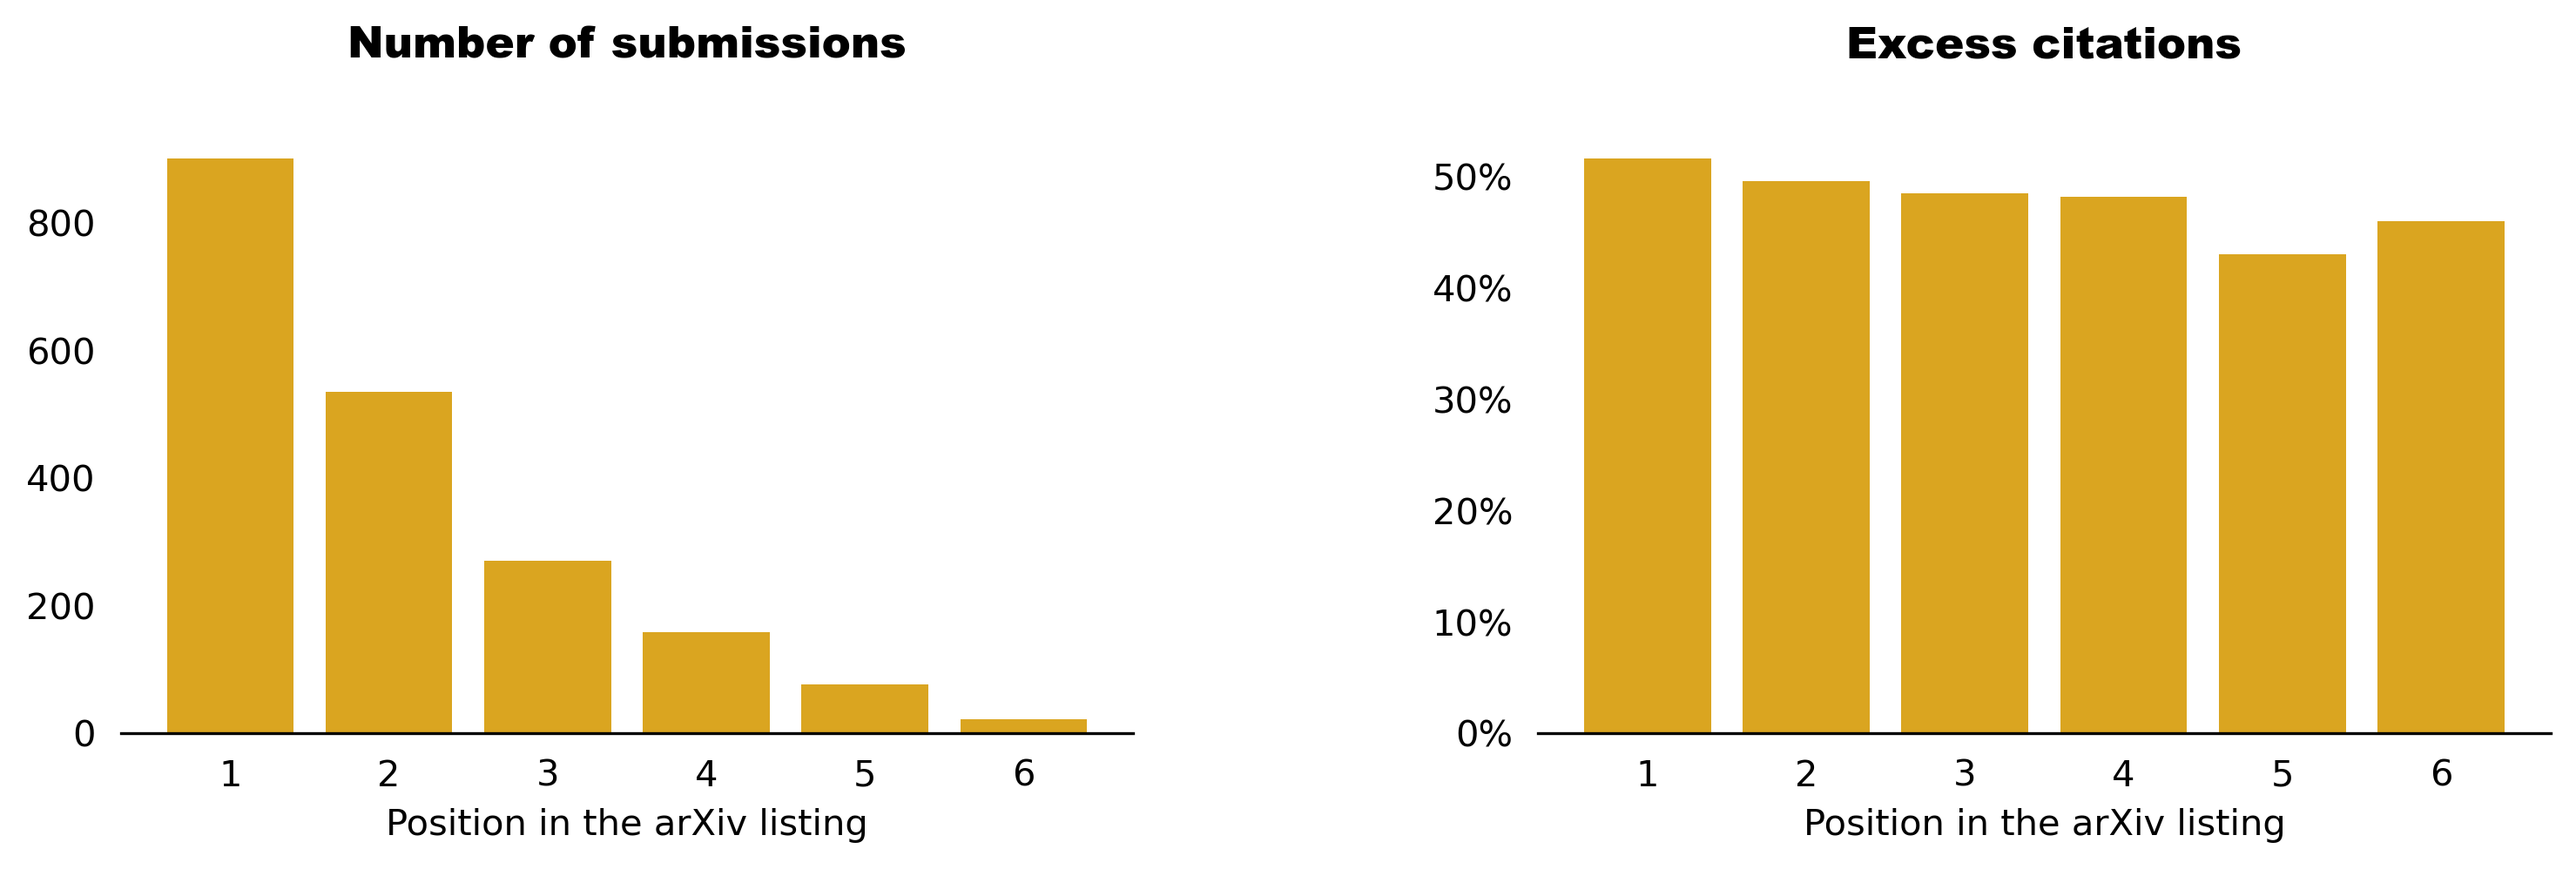
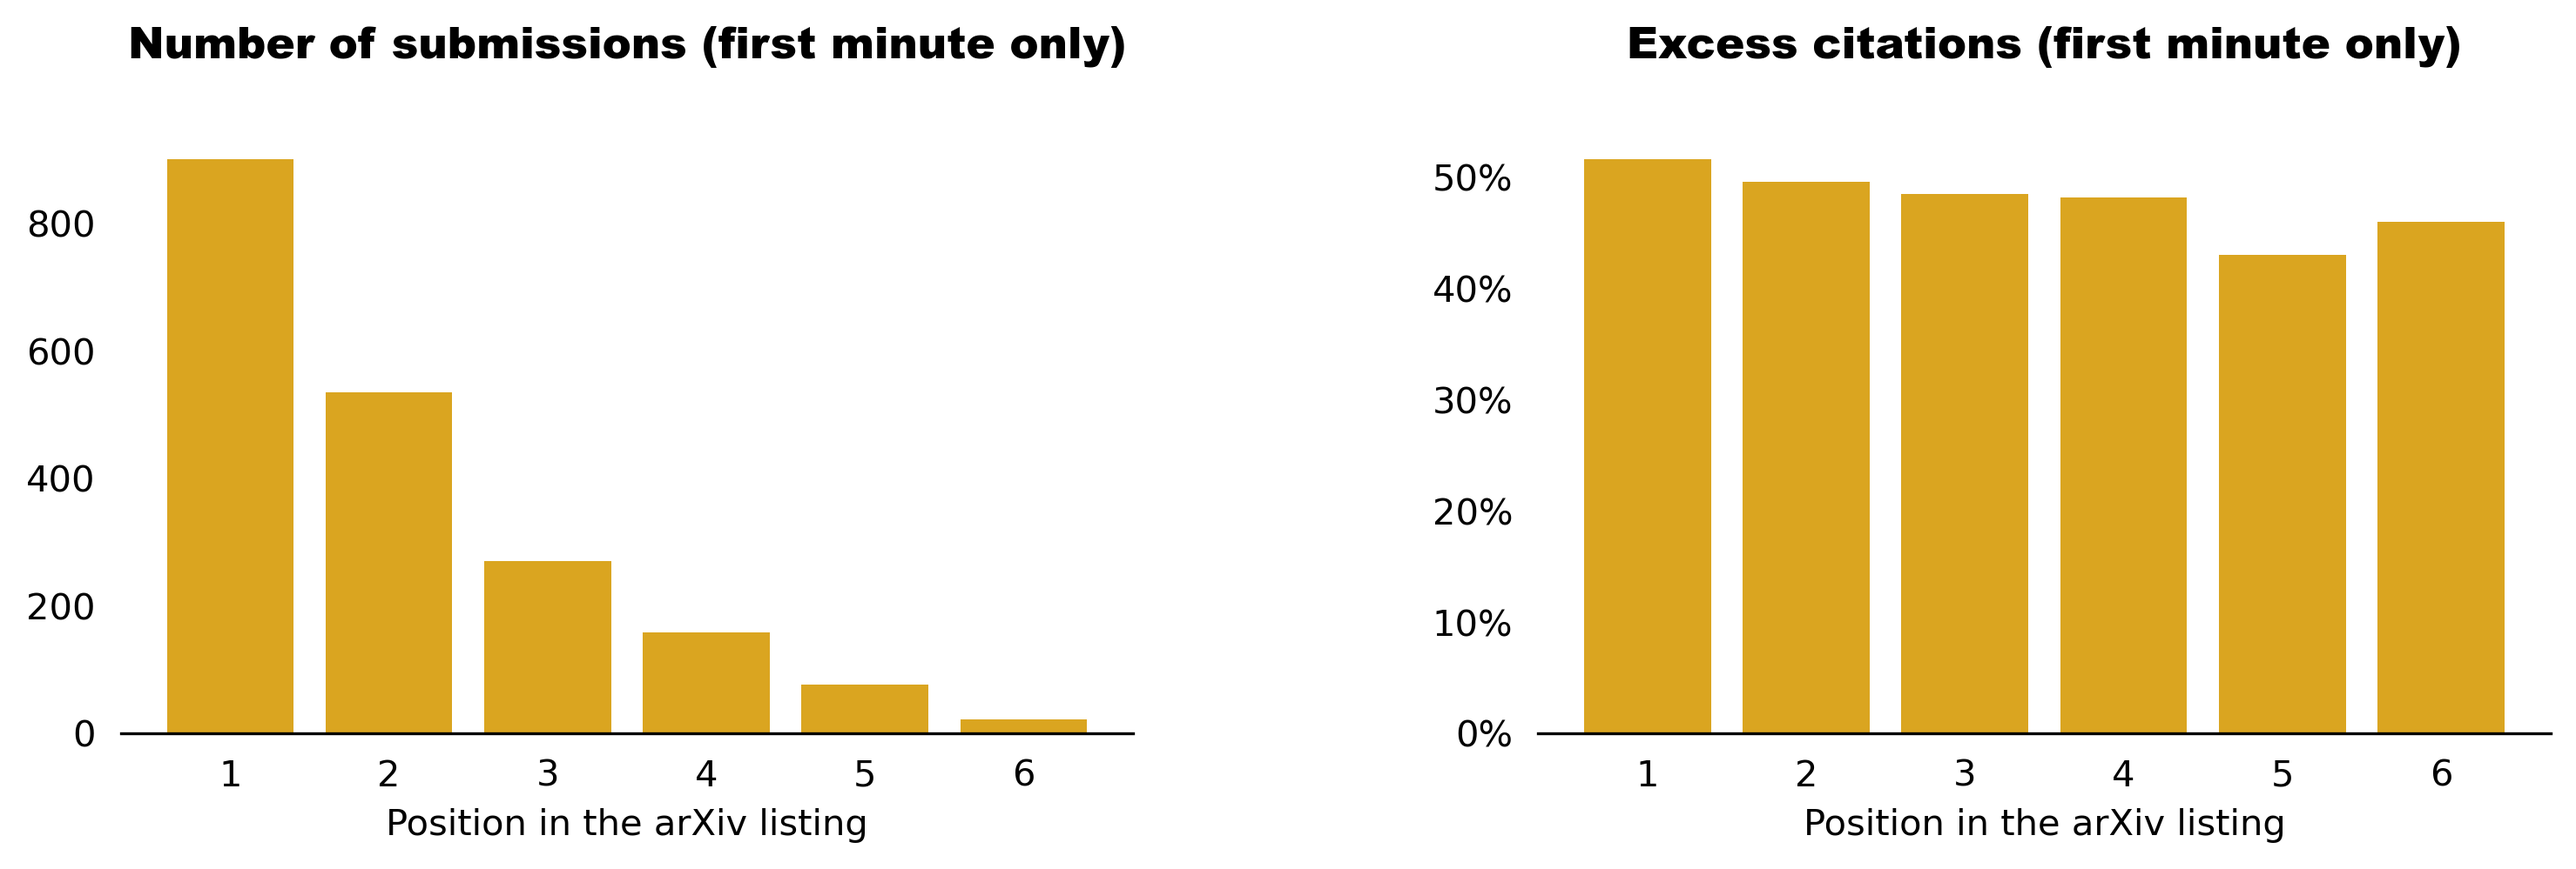
better fig descrption - first minute only

diff --git a/analyze.py b/analyze.py
@@ -255,8 +255,8 @@ axs[0].bar(range(6), counts[:6],        color = 'goldenrod')
 axs[1].bar(range(6), avg_cit_count[:6], color = 'goldenrod')
 axs[1].axhline(0, color = 'black', lw = 0.6)
 
-axs[0].set_title('Number of submissions', fontfamily = 'Arial Black', pad = 20)
-axs[1].set_title('Excess citations',      fontfamily = 'Arial Black', pad = 20)
+axs[0].set_title('Number of submissions (first minute only)', fontfamily = 'Arial Black', pad = 20)
+axs[1].set_title('Excess citations (first minute only)',      fontfamily = 'Arial Black', pad = 20)
 axs[0].set_xlabel('Position in the arXiv listing')
 axs[1].set_xlabel('Position in the arXiv listing')
 
